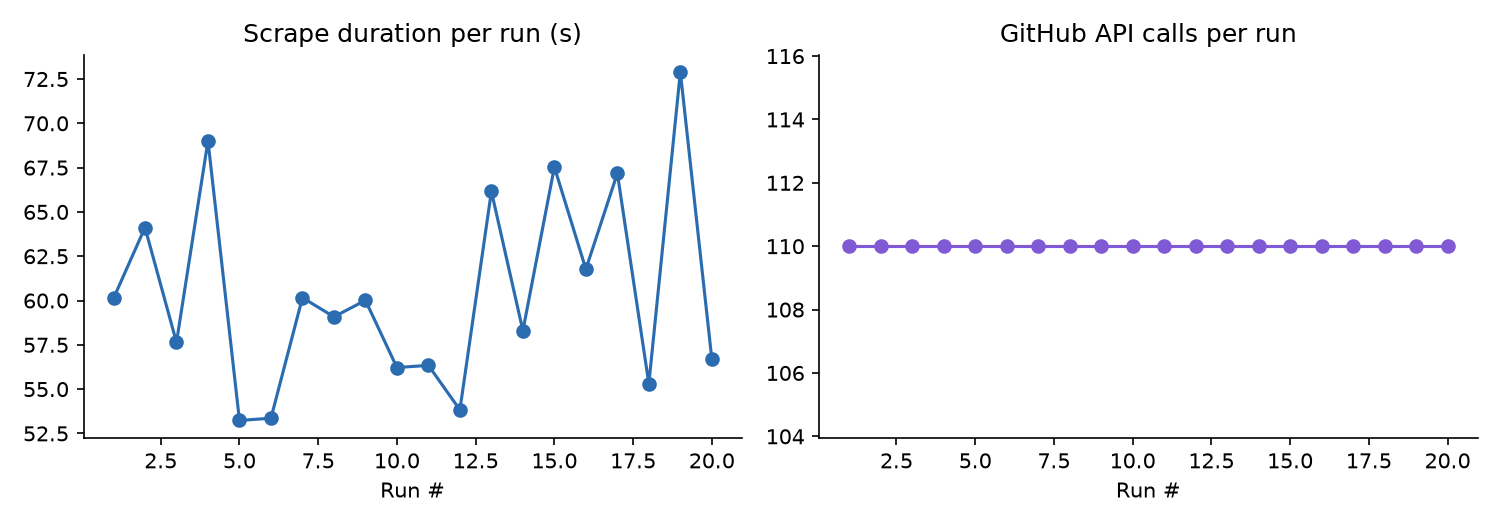
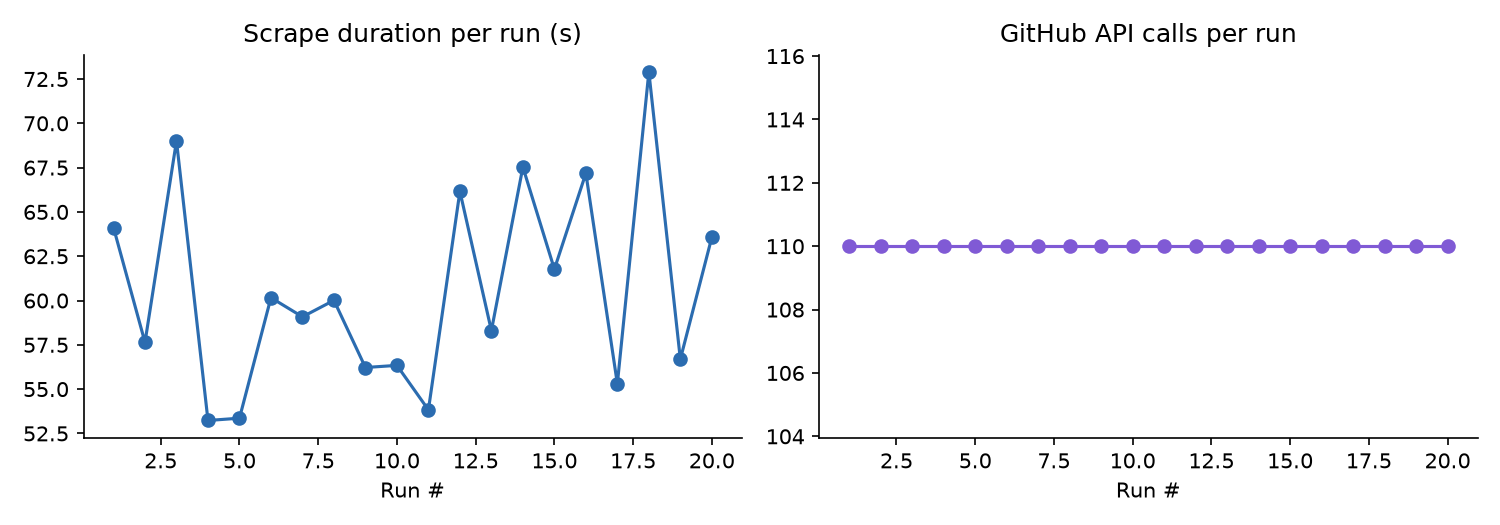
Weekly issue tracker refresh

Changed region(s): [[0.3067, 0.1219, 0.4907, 0.7619], [0.0613, 0.2438, 0.2453, 0.8229], [0.2147, 0.6705, 0.3373, 0.7924]]

diff --git a/README.md b/README.md
@@ -81,7 +81,7 @@ See [CONTRIBUTING.md](CONTRIBUTING.md) for the full contributor workflow — inc
 
 <!-- TRACKER:START -->
 
-_Last updated: 2026-08-17 05:55 UTC_
+_Last updated: 2026-08-17 06:32 UTC_
 
 _Tracking **18** upstream repos, **386** relevant open issues._
 
@@ -296,7 +296,7 @@ _Tracking **18** upstream repos, **386** relevant open issues._
 
 <!-- METRICS:START -->
 
-_Last run: 2026-08-17 05:54 UTC, took **56.7s**, **110** GitHub API calls, **4890/5000** rate limit remaining._
+_Last run: 2026-08-17 06:31 UTC, took **63.6s**, **110** GitHub API calls, **4780/5000** rate limit remaining._
 
 ![Scrape metrics trend](assets/metrics_trend.png)
 
